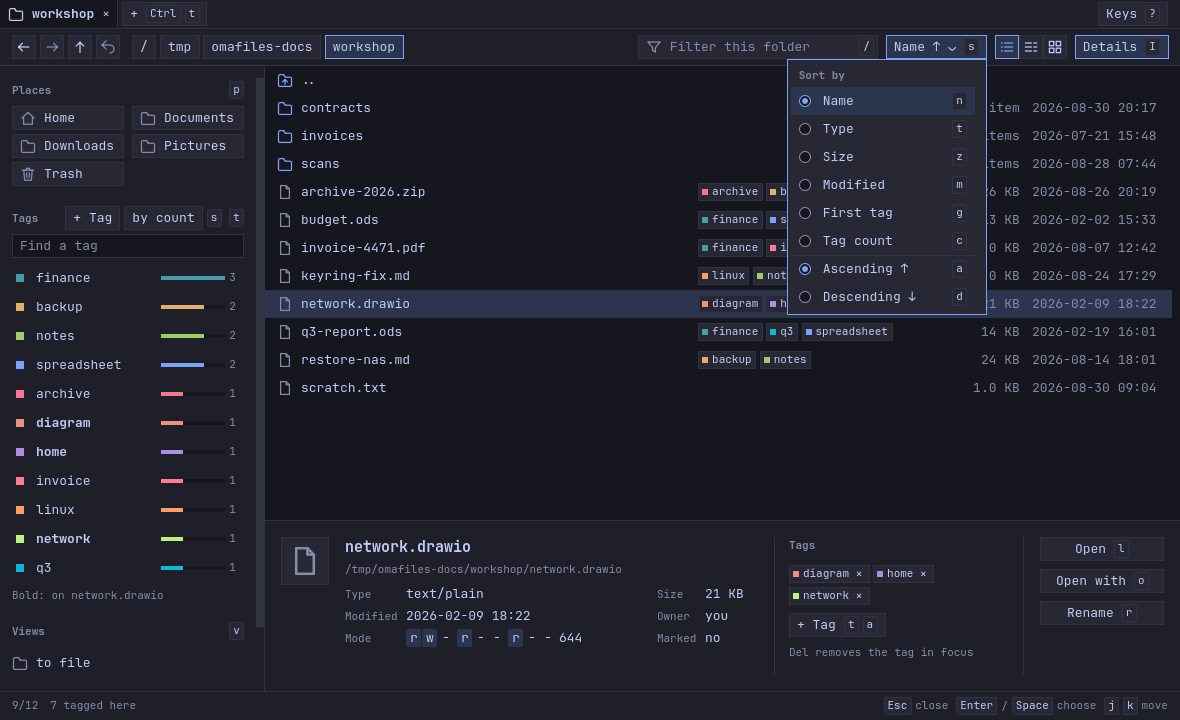
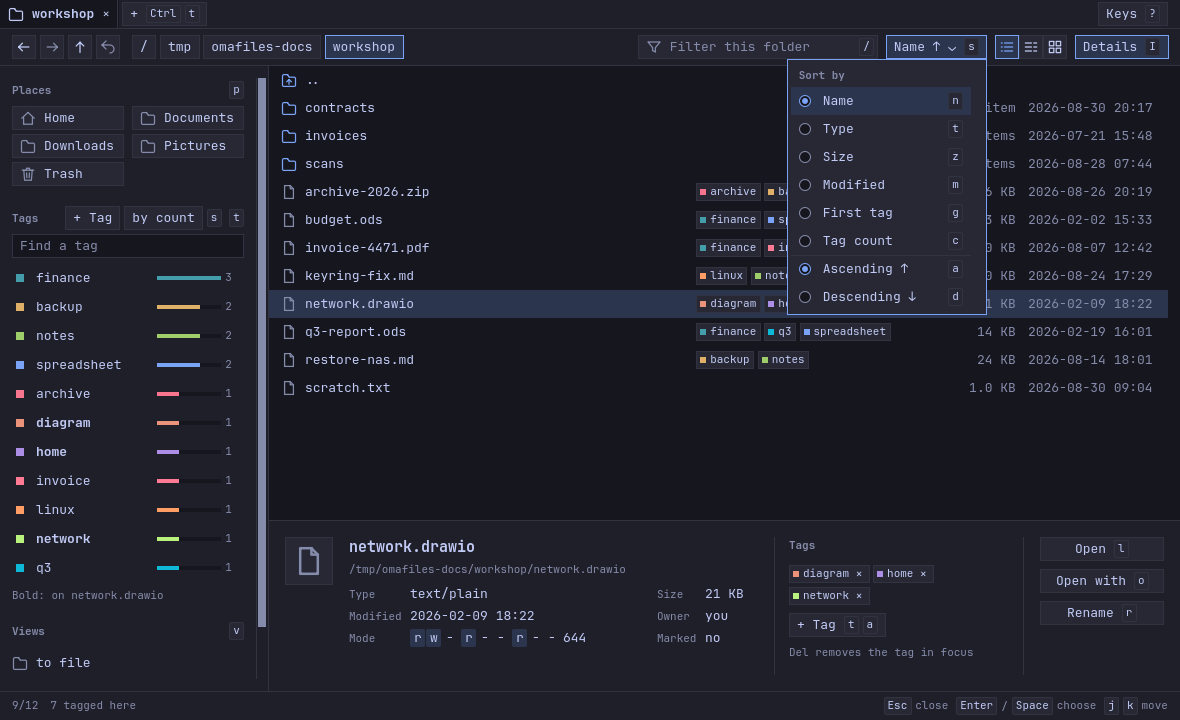
fix(studio): give the scroll bar contrast and buttons
The thumb was the line colour over the bare surface, about 1.3:1 on
base, thin, and the jumps to the first and last row were bare
chevrons, so the bar was nearly invisible. The bar now reserves the
12 px strip of the chosen layout: a chrome trough with a line edge
and an 8 px dim thumb, which Theme keeps at 4.5:1 on chrome in every
theme, turning foreground under the pointer. The end buttons are
Chips as wide as the strip, so they have the one button look with
its hover and pressed states, and stay out of the Tab order. The
sidebar grows by the 4 px the strip took, so the place names still
fit whole.

diff --git a/src/studio/qml/ScrollBar.qml b/src/studio/qml/ScrollBar.qml
@@ -6,9 +6,11 @@ import omafiles
 
 // The one scroll bar. Shown whenever the content is taller than the view, in a
 // strip the view reserves (`Theme.scrollBarWidth`), so it never covers a row.
-// It draws no track: the surface under it shows. Dragging the thumb scrolls, a
-// click in the trough pages toward the pointer, and a middle click or a Shift
-// click jumps there. It never takes the keyboard.
+// Its trough is `chrome` with a `line` edge, its thumb `dim`, and `foreground`
+// under the pointer: Theme keeps `dim` at 4.5:1 on `chrome` in every theme, so
+// the thumb stands out on whatever surface holds the bar. Dragging the thumb
+// scrolls, a click in the trough pages toward the pointer, and a middle click
+// or a Shift click jumps there. It never takes the keyboard.
 //
 // The pointer is handled here rather than by the template, whose press in the
 // trough jumps instead of paging.
@@ -18,6 +20,8 @@ T.ScrollBar {
     readonly property bool lit: pointer.containsMouse || pointer.pressed
 
     interactive: false
+    // Keeps the thumb off the trough's edge line, `scrollThumb` wide at rest.
+    horizontalPadding: (Theme.scrollBarWidth - Theme.scrollThumb) / 2
     visible: bar.size < 1
     minimumSize: bar.height > 0 ? Math.min(1, Theme.rowHeight / bar.height) : 0
     implicitWidth: bar.lit ? Theme.scrollBarHover : Theme.scrollBarWidth
@@ -29,7 +33,8 @@ T.ScrollBar {
 
     contentItem: Rectangle {
         objectName: "scrollThumb"
-        color: bar.lit ? Theme.dim : Theme.line
+        radius: Theme.rounding
+        color: bar.lit ? Theme.foreground : Theme.dim
     }
 
     background: MouseArea {
@@ -57,5 +62,12 @@ T.ScrollBar {
                 bar.moveTo(mouse.y / bar.height - grip)
         }
         onReleased: grip = -1
+
+        Rectangle {
+            objectName: "scrollTrough"
+            anchors.fill: parent
+            color: Theme.chrome
+            Rule { vertical: true; anchors.left: parent.left }
+        }
     }
 }

diff --git a/src/studio/qml/Main.qml b/src/studio/qml/Main.qml
@@ -2449,7 +2449,7 @@ Window {
                     id: sidebar
                     objectName: "sidebar"
                     Layout.fillHeight: true
-                    Layout.preferredWidth: 264
+                    Layout.preferredWidth: 268
                     // The panel belongs to both list tabs: the views in it are
                     // how you get anywhere, and a tags tab needs them as much
                     // as a folder does.
@@ -3441,25 +3441,25 @@ Window {
         }
     }
 
-    // A chevron at one end of a file view's scroll bar, pointing to the first
-    // row or, with `last`, the last. Not a Tab stop: Home and End are its keys.
-    component ScrollJump: Item {
+    // A button at one end of a file view's scroll bar, its chevron pointing to
+    // the first row or, with `last`, the last. Not a Tab stop: Home and End are
+    // its keys.
+    component ScrollJump: Chip {
         id: jump
         property bool last: false
-        signal activated
         width: parent.width
         height: Theme.chipHeight
-        Accessible.role: Accessible.Button
-        Accessible.name: jump.last ? "Last row" : "First row"
-        HoverHandler { id: jumpHover }
-        TapHandler { onTapped: jump.activated() }
+        tabFocusable: false
+        caption: jump.last ? "Last row" : "First row"
+        key: jump.last ? "End" : "Home"
+        Accessible.name: caption
         Icon {
             anchors.centerIn: parent
             width: jump.width
             height: jump.width
             kind: "chevron"
             rotation: jump.last ? 180 : 0
-            ink: jumpHover.hovered ? Theme.foreground : Theme.dim
+            ink: jump.ink
         }
     }
 

diff --git a/tests/tst_studio.cpp b/tests/tst_studio.cpp
@@ -742,6 +742,9 @@ private slots:
     void troughMiddleOrShiftClickJumps();
     void barDoesNotCoverRows();
     void scrollJumpButtonsMatchHomeEnd();
+    void scrollThumbStandsOutOfItsTrough();
+    void scrollJumpButtonsLookLikeButtons();
+    void placeNamesFitWholeInTheSidebar();
     void sectionHeadingsAreNotTabStops();
     void paletteFocusesTheDevices();
     void emptyStateTextWraps();
@@ -9669,7 +9672,7 @@ void TestStudio::emptyStateTextWraps()
     });
     auto *sidebar = qobject_cast<QQuickItem *>(window()->property("activeSidebar").value<QObject *>());
     QVERIFY(sidebar && sidebar->isVisible());
-    QCOMPARE(sidebar->width(), qreal(264));
+    QCOMPARE(sidebar->width(), qreal(268));
     // The sidebar has no drag handle: its layout width is set to 220, where
     // the help needs two lines.
     QQmlProperty preferred(sidebar, QStringLiteral("Layout.preferredWidth"), qmlContext(sidebar));
@@ -12759,6 +12762,103 @@ void TestStudio::scrollJumpButtonsMatchHomeEnd()
     QTRY_COMPARE(state(), home);
 }
 
+// The thumb reads against its trough at rest and under the pointer: 3:1, the
+// WCAG floor for a control's shape.
+void TestStudio::scrollThumbStandsOutOfItsTrough()
+{
+    const QSize original = window()->size();
+    const auto restore = qScopeGuard([&] { window()->resize(original); });
+    QTemporaryDir directory;
+    QVERIFY(openLongFolder(directory, 500));
+    QQuickItem *bar = nullptr;
+    QTRY_VERIFY((bar = shownFileBar(filesRoot())));
+    auto *thumb = bar->property("contentItem").value<QQuickItem *>();
+    auto *trough = itemNamedWithin(bar, QStringLiteral("scrollTrough"));
+    QVERIFY(thumb && trough && trough->isVisible());
+    const auto colour = [](QQuickItem *item) { return item->property("color").value<QColor>(); };
+    QCOMPARE(colour(trough).alpha(), 255);
+    const auto ratio = [&] { return omafiles::contrast(colour(thumb), colour(trough)); };
+    QTest::mouseMove(window(), QPoint(2, 2));
+    QTRY_VERIFY(!bar->property("lit").toBool());
+    QVERIFY2(ratio() >= 3, qPrintable(QStringLiteral("at rest %1:1").arg(ratio())));
+    // The strip and thumb of the chosen layout: a 12 px strip, an 8 px thumb.
+    QCOMPARE(qRound(bar->width()), 12);
+    QCOMPARE(qRound(thumb->width()), 8);
+    const QColor rest = colour(thumb);
+    QTest::mouseMove(window(), thumb->mapToScene(QPointF(thumb->width() / 2, thumb->height() / 2)).toPoint());
+    QTRY_VERIFY(bar->property("lit").toBool());
+    QVERIFY(colour(thumb) != rest);
+    QVERIFY2(ratio() >= 3, qPrintable(QStringLiteral("under the pointer %1:1").arg(ratio())));
+    QTest::mouseMove(window(), QPoint(2, 2));
+}
+
+// The buttons at the bar's ends have the button look: a raised box with a
+// line border, lighter under the pointer, filled and accent-bordered while
+// pressed. Home and End are their keys, so neither is a Tab stop.
+void TestStudio::scrollJumpButtonsLookLikeButtons()
+{
+    const QSize original = window()->size();
+    const auto restore = qScopeGuard([&] { window()->resize(original); });
+    QTemporaryDir directory;
+    QVERIFY(openLongFolder(directory, 500));
+    for (const QString &name : {QStringLiteral("scrollToStart"), QStringLiteral("scrollToEnd")}) {
+        auto *button = itemNamedWithin(qobject_cast<QQuickItem *>(filesRoot()), name);
+        QVERIFY(button);
+        QTRY_VERIFY(button->isVisible());
+        const auto colour = [&] { return button->property("color").value<QColor>(); };
+        const auto border = [&] { return button->property("border").value<QObject *>(); };
+        QVERIFY2(border(), qPrintable(name));
+        QVERIFY(!button->activeFocusOnTab());
+        QCOMPARE(qRound(button->width()), m_theme->scrollBarWidth());
+        QTest::mouseMove(window(), QPoint(2, 2));
+        QTRY_COMPARE(colour(), m_theme->raised());
+        QVERIFY(border()->property("width").toReal() >= 1);
+        QCOMPARE(border()->property("color").value<QColor>(), m_theme->line());
+        const QPoint centre = button->mapToScene(QPointF(button->width() / 2, button->height() / 2)).toPoint();
+        QTest::mouseMove(window(), centre);
+        QTRY_COMPARE(colour(), m_theme->hoverRaised());
+        QTest::mousePress(window(), Qt::LeftButton, Qt::NoModifier, centre);
+        QTRY_COMPARE(colour(), m_theme->cursor());
+        QCOMPARE(border()->property("color").value<QColor>(), m_theme->accent());
+        QTest::mouseRelease(window(), Qt::LeftButton, Qt::NoModifier, centre);
+        QTRY_COMPARE(colour(), m_theme->hoverRaised());
+    }
+    QTest::mouseMove(window(), QPoint(2, 2));
+}
+
+// At the sidebar's own width, beside its scroll bar's strip, every place
+// button shows its whole name.
+void TestStudio::placeNamesFitWholeInTheSidebar()
+{
+    const QDir home(m_tree.path());
+    const QStringList folders{QStringLiteral("Desktop"), QStringLiteral("Documents"), QStringLiteral("Downloads"),
+                              QStringLiteral("Music"), QStringLiteral("Pictures"), QStringLiteral("Videos")};
+    for (const QString &folder : folders)
+        QVERIFY(home.mkdir(folder));
+    const auto cleanup = qScopeGuard([&] {
+        for (const QString &folder : folders)
+            QDir(home.filePath(folder)).removeRecursively();
+        tab()->setCwd(home.filePath(QStringLiteral("alpha")));
+        tab()->setCwd(m_tree.path());
+        settle();
+    });
+    tab()->setCwd(home.filePath(QStringLiteral("alpha")));
+    tab()->setCwd(m_tree.path());
+    auto *sidebar = qobject_cast<QQuickItem *>(window()->property("activeSidebar").value<QObject *>());
+    QVERIFY(sidebar && sidebar->isVisible());
+    auto *grid = sidebar->property("placesList").value<QQuickItem *>();
+    QTRY_COMPARE(grid->property("count").toInt(), folders.size() + 2);
+    settle();
+    int names = 0;
+    for (auto *label : itemsNamed(QStringLiteral("placeName"))) {
+        if (!grid->isAncestorOf(label) || !label->isVisible())
+            continue;
+        ++names;
+        QVERIFY2(!label->property("truncated").toBool(), qPrintable(label->property("text").toString()));
+    }
+    QCOMPARE(names, folders.size() + 2);
+}
+
 void TestStudio::keepsTagEditorFocusAndSuggestionsVisible()
 {
     const QSize original = window()->size();
@@ -12817,10 +12917,10 @@ void TestStudio::routesSidebarKeysByScrollRange_data()
     QTest::addColumn<bool>("overflowing");
     QTest::addColumn<bool>("tooltip");
     QTest::addColumn<int>("navigationKey");
-    // At 920 the details dock keeps its tags column beside a sidebar of up to
-    // 264 px.
+    // At 924 the details dock keeps its tags column beside a sidebar of up to
+    // 268 px.
     for (bool pendingRefresh : {false, true})
-        for (int width : {1180, 920})
+        for (int width : {1180, 924})
             for (bool overflowing : {false, true})
                 for (bool tooltip : {false, true})
                     for (auto code : {Qt::Key_Up, Qt::Key_Down, Qt::Key_PageUp,
@@ -18163,9 +18263,9 @@ void TestStudio::givesTheNameColumnPriority()
     QVERIFY(chosen.contains("tags") && chosen.contains("size") && chosen.contains("mtime"));
     QList<qreal> lists;
     // Window widths and pane counts that give lists from 100 to 1340 px; the
-    // sidebar takes 265 px beside a single pane, and the list's scroll bar 8.
-    for (const QPair<int, int> layout : {qMakePair(420, 1), qMakePair(640, 1), qMakePair(821, 1), qMakePair(1180, 1),
-                                         qMakePair(1328, 1), qMakePair(1613, 1), qMakePair(420, 2), qMakePair(600, 2), qMakePair(1000, 2)}) {
+    // sidebar takes 269 px beside a single pane, and the list's scroll bar 12.
+    for (const QPair<int, int> layout : {qMakePair(420, 1), qMakePair(640, 1), qMakePair(829, 1), qMakePair(1180, 1),
+                                         qMakePair(1328, 1), qMakePair(1621, 1), qMakePair(420, 2), qMakePair(600, 2), qMakePair(1000, 2)}) {
         window()->resize(layout.first, 600);
         if (layout.second == 2 && m_workspace->paneCount() == 1) key(Qt::Key_Backslash, Qt::ControlModifier);
         QCOMPARE(m_workspace->paneCount(), layout.second);

diff --git a/src/studio/Theme.h b/src/studio/Theme.h
@@ -68,6 +68,7 @@ class Theme : public QObject
     Q_PROPERTY(int focusRing READ focusRing CONSTANT)
     Q_PROPERTY(int scrollBarWidth READ scrollBarWidth CONSTANT)
     Q_PROPERTY(int scrollBarHover READ scrollBarHover CONSTANT)
+    Q_PROPERTY(int scrollThumb READ scrollThumb CONSTANT)
 
 public:
     explicit Theme(QObject *parent = nullptr);
@@ -144,9 +145,10 @@ public:
     // The width of the focus ring, drawn just outside the box it marks.
     static constexpr int focusRing() { return 2; }
     // A scroll bar's width at rest, which its view reserves, and under the
-    // pointer.
-    static constexpr int scrollBarWidth() { return 8; }
-    static constexpr int scrollBarHover() { return 12; }
+    // pointer; its thumb's width at rest.
+    static constexpr int scrollBarWidth() { return 12; }
+    static constexpr int scrollBarHover() { return 16; }
+    static constexpr int scrollThumb() { return 8; }
 
 signals:
     void changed();

diff --git a/docs/design.md b/docs/design.md
@@ -48,7 +48,7 @@ The CLI is a command-line tool that invokes core library verbs: `ls`, `tags`, `t
 
 ### Studio (`src/studio`)
 
-The studio is a Qt Quick window over the core library. It implements folder browsing, tag editing, thumbnail display, preview, trash, undo, desktop file manager integration, file operations with conflict resolution, and the portal file chooser. Its window is a tab strip and a toolbar, then the body: the sidebar on the left (`Sidebar.qml`: places, devices, tags, saved views) at full height, and beside it the panes in a split view with the details dock under them (`Details.qml`), as wide as every pane together and behind a 1 px `line`. The dock has three columns split by `line`: the file (a 48 px `raised` icon square, the name in `fontTitle` DemiBold, the path, the facts in pairs), its tags (248 px), and its actions (156 px). A column with no room beside 400 px of file column is dropped whole, the actions first. The tab strip holds every pane's tabs, side by side in pane order, each pane's group with its own `+`, and the keys sheet's button at the right. The toolbar holds back, forward, up and undo, the path as one `Chip` per folder (the current one on; a stem too long for the bar gives way from the left behind one `…`), the filter field, the sort button (`chooseSort` in `Main.qml`, which `s` also calls), the view mode switch (`ViewModeSwitch.qml`: one Tab stop, Left and Right inside) and the Details toggle (`detailsShown`). The toolbar acts on the focused pane. There is one sidebar and one dock per window, and both act on the focused pane too. The sidebar is dropped while a pane would be too narrow beside it (`paneShare`, the window width over the pane count, under 480). The dock is as tall as its file column with the path on all three lines, so it keeps its height while the cursor moves. It is there on every list tab at any width; it is dropped while the panes above it would be shorter than `listLeast`, and comes back when there is room (`details.fits`). The Details toggle and **I** (`detailsShown`, also the palette's **Show or hide details**) decide whether it is wanted. The facts' Mode and Marked row is dropped where the file column cannot hold the permission bits, so no bit is cut. The path wraps only after `/`: `Details.breakable` puts U+200B after each `/` and U+2060 between the other characters, so a space or a hyphen gives no break, and `fitPath` drops whole folders from the middle behind `…` until a hidden probe `Text` lays it out on three lines. A dock tag chip is one `FocusableControl` whose tap is routed by position: the trailing 12 px `×` removes the tag (`IndexModel.tagRemove` over the row or the marked set, as the row menu's **Remove tag** does), the body toggles the tag's view as a sidebar click does (`toggleTag`); Enter opens and Delete removes. A chip that goes while it has the keyboard, as when the cursor moves to a row without its tag, hands the keyboard to the next control in the Tab chain (`handOnFocus`), as a hidden `FocusableControl` does. Open, Open with and Rename show and call what `l`, `o` and `r` call; `o` opens the row menu's Open with list under the cursor row (`openOpenWithMenuForCursor`), only where the dock's button is usable (`details.canOpenWith`), so it works with the dock hidden. `detailsDockTogglesWithKey`, `detailsPathBreaksAfterSlash`, `detailsTagChipRemoveIsItsOwnTarget`, `detailsTagChipHandsOnFocusWhenRemoved` `dockActionsRunTheirCommands` and `opensWithFromTheKeyboard` in `tests/tst_studio.cpp` check the place, the path, the chips, where the keyboard goes when a chip goes, and the actions. It runs the CLI and core verbs asynchronously in background tasks. The window can run without the helpers; helpers are started on demand when their features are used. Large folders are loaded in the background with names cached and metadata read on demand. Background jobs run on Qt's global thread pool, which Qt sizes from the CPU affinity mask: one thread on one CPU. A job that makes filesystem calls (folder listing, folder item counts, index presence, Trash scan, restore and empty, drop planning, portal path checks, undo steps, archive stage cleanup, default file manager setup) runs through `runBlocking` in `src/studio/BlockingJob.h`, which gives the job's pool slot back with `QThreadPool::releaseThread()` until it returns, as Qt documents for a runnable that waits. A job stuck in the kernel on an unresponsive mount then never keeps queued jobs waiting; the pool starts another thread for them. Pure CPU work (portal filter patterns) keeps its slot, and the CPU-heavy parts of a folder listing run on the directory worker pool, one worker per allowed CPU. See [browsing.md](browsing.md) for how large folder browsing works, [thumbnails.md](thumbnails.md) for thumbnail caching, [drag-and-drop.md](drag-and-drop.md) for file operations, and [conflicts.md](conflicts.md) for handling conflicting paths during copy and move.
+The studio is a Qt Quick window over the core library. It implements folder browsing, tag editing, thumbnail display, preview, trash, undo, desktop file manager integration, file operations with conflict resolution, and the portal file chooser. Its window is a tab strip and a toolbar, then the body: the sidebar on the left (`Sidebar.qml`: places, devices, tags, saved views) at full height and 268 px wide, so every place name fits whole beside its scroll bar's strip (`placeNamesFitWholeInTheSidebar` in `tests/tst_studio.cpp`), and beside it the panes in a split view with the details dock under them (`Details.qml`), as wide as every pane together and behind a 1 px `line`. The dock has three columns split by `line`: the file (a 48 px `raised` icon square, the name in `fontTitle` DemiBold, the path, the facts in pairs), its tags (248 px), and its actions (156 px). A column with no room beside 400 px of file column is dropped whole, the actions first. The tab strip holds every pane's tabs, side by side in pane order, each pane's group with its own `+`, and the keys sheet's button at the right. The toolbar holds back, forward, up and undo, the path as one `Chip` per folder (the current one on; a stem too long for the bar gives way from the left behind one `…`), the filter field, the sort button (`chooseSort` in `Main.qml`, which `s` also calls), the view mode switch (`ViewModeSwitch.qml`: one Tab stop, Left and Right inside) and the Details toggle (`detailsShown`). The toolbar acts on the focused pane. There is one sidebar and one dock per window, and both act on the focused pane too. The sidebar is dropped while a pane would be too narrow beside it (`paneShare`, the window width over the pane count, under 480). The dock is as tall as its file column with the path on all three lines, so it keeps its height while the cursor moves. It is there on every list tab at any width; it is dropped while the panes above it would be shorter than `listLeast`, and comes back when there is room (`details.fits`). The Details toggle and **I** (`detailsShown`, also the palette's **Show or hide details**) decide whether it is wanted. The facts' Mode and Marked row is dropped where the file column cannot hold the permission bits, so no bit is cut. The path wraps only after `/`: `Details.breakable` puts U+200B after each `/` and U+2060 between the other characters, so a space or a hyphen gives no break, and `fitPath` drops whole folders from the middle behind `…` until a hidden probe `Text` lays it out on three lines. A dock tag chip is one `FocusableControl` whose tap is routed by position: the trailing 12 px `×` removes the tag (`IndexModel.tagRemove` over the row or the marked set, as the row menu's **Remove tag** does), the body toggles the tag's view as a sidebar click does (`toggleTag`); Enter opens and Delete removes. A chip that goes while it has the keyboard, as when the cursor moves to a row without its tag, hands the keyboard to the next control in the Tab chain (`handOnFocus`), as a hidden `FocusableControl` does. Open, Open with and Rename show and call what `l`, `o` and `r` call; `o` opens the row menu's Open with list under the cursor row (`openOpenWithMenuForCursor`), only where the dock's button is usable (`details.canOpenWith`), so it works with the dock hidden. `detailsDockTogglesWithKey`, `detailsPathBreaksAfterSlash`, `detailsTagChipRemoveIsItsOwnTarget`, `detailsTagChipHandsOnFocusWhenRemoved` `dockActionsRunTheirCommands` and `opensWithFromTheKeyboard` in `tests/tst_studio.cpp` check the place, the path, the chips, where the keyboard goes when a chip goes, and the actions. It runs the CLI and core verbs asynchronously in background tasks. The window can run without the helpers; helpers are started on demand when their features are used. Large folders are loaded in the background with names cached and metadata read on demand. Background jobs run on Qt's global thread pool, which Qt sizes from the CPU affinity mask: one thread on one CPU. A job that makes filesystem calls (folder listing, folder item counts, index presence, Trash scan, restore and empty, drop planning, portal path checks, undo steps, archive stage cleanup, default file manager setup) runs through `runBlocking` in `src/studio/BlockingJob.h`, which gives the job's pool slot back with `QThreadPool::releaseThread()` until it returns, as Qt documents for a runnable that waits. A job stuck in the kernel on an unresponsive mount then never keeps queued jobs waiting; the pool starts another thread for them. Pure CPU work (portal filter patterns) keeps its slot, and the CPU-heavy parts of a folder listing run on the directory worker pool, one worker per allowed CPU. See [browsing.md](browsing.md) for how large folder browsing works, [thumbnails.md](thumbnails.md) for thumbnail caching, [drag-and-drop.md](drag-and-drop.md) for file operations, and [conflicts.md](conflicts.md) for handling conflicting paths during copy and move.
 
 ### Studio metrics
 
@@ -73,7 +73,7 @@ The window's colours and sizes come from one QML singleton, `Theme` (`src/studio
 | | `listLeast` | 136 | the least height the panes keep above the details dock: a column heading and four rows |
 | Indent | `iconSize`, `iconGap` | 16, 8 | a row's icon and the gap before its text |
 | Focus | `focusRing` | 2 | the width of the focus ring, drawn just outside the box it marks |
-| Scroll bar | `scrollBarWidth`, `scrollBarHover` | 8, 12 | a scroll bar at rest, which its view reserves at its right edge, and under the pointer |
+| Scroll bar | `scrollBarWidth`, `scrollBarHover`, `scrollThumb` | 12, 16, 8 | a scroll bar at rest, which its view reserves at its right edge, and under the pointer; its thumb at rest |
 
 Every colour is opaque. `Theme` mixes each role from the theme's `background`, `foreground` and `accent` in `colors.toml`: `base` (the background: the file list, text fields, the current tab), `chrome` (5 % toward the foreground: tab strip, toolbar, tabs other than the current one, sidebar, details, footer, sheets), `raised` (10 %: menus, tooltips, keycaps, tag chips, chips at rest), `line` (16 %: every hairline and control border), `hoverBase`, `hoverChrome` and `hoverRaised` (each surface 6 % toward the foreground), `cursor` (`base` 22 % toward the accent: the keyboard cursor's row or cell, a control that is on), `marked` (12 %: a marked row), `dim` (the foreground eased toward the background by at most 45 %, and by less where it would read below 4.5:1 on `chrome`) and `scrim` (`base` 35 % toward black, drawn opaque in place of the window behind a sheet). `foreground`, `accent` and `urgent` (the theme's `red`) are used as they are, and an alpha in `colors.toml` is dropped from every colour it gives. A translucent colour would show whatever is under it, and a `Rectangle` that is fully transparent, square and has a border group but no border width leaves alpha 0 in the window, which the desktop shows through. So no QML names a colour literal, builds a colour or animates a border colour, and an item that draws nothing at rest is not drawn: a `FocusableControl` draws its box only while its host sets `hasChrome`, a `PanelRow` its wash while `washed`. The three outlines (`FocusRing`, the rubber band, the drop target) are transparent inside and set their border width. `tests/test_qml_colours.py`, run by `mise run test`, fails on any other; `themeRolesAreOpaque` and `dimTextHasContrast` in `tests/tst_studio.cpp` check every role under the default theme, a light one and a translucent one.
 
@@ -83,7 +83,7 @@ Every tag has a colour, which only the window keeps: the index and the CLI do no
 
 A tab (`TabHandle.qml`) is `base` while it is its pane's current tab, so it joins the list under it, and `chrome` with a `dim` name otherwise; only the focused pane's current tab sets its name in DemiBold, and no tab draws an accent. Its close mark is always drawn: `foreground` on the current tab, `dim` on the others, `urgent` under the pointer. A tab listing a tag shows a `tagSwatch` square in `Theme.tagColour` of that tag (a tags tab: its last facet) in place of the folder mark. Each tab keeps the folders it stood in, in memory only: `TabState::setCwd` puts the folder it leaves on the back list and empties the forward one, and `goBack` and `goForward` (the toolbar buttons, **H** and **L**) leave a tag, a search or the recent list, then step, passing over a folder that is gone, with the cursor on the folder walked out of. `tabCloseVisibleOnEveryTab`, `currentTabIsBaseAndBold`, `focusedPaneTabIsBold`, `tagTabShowsColour`, `viewModeSwitchIsOneTabStop`, `pathSegmentsNavigate`, `toolbarDetailsToggles` and `backAndForwardWalkTheHistory` in `tests/tst_studio.cpp` check the strip and the toolbar.
 
-`ScrollBar` (`src/studio/qml/ScrollBar.qml`, on `QtQuick.Templates`) is the one scroll bar, on every view that scrolls: the file list and icons, the sidebar, details, menus, the palette, Trash, the chooser, tag suggestions and every sheet. It is shown exactly while its content is taller than its view. Its view keeps `scrollBarWidth` px at its right edge for it, so rows, tag chips and columns end before it; it draws no track, so the surface shows there. The thumb is `line`, `dim` and `scrollBarHover` px wide under the pointer or while dragged, and at least `rowHeight` long. A press in the trough moves one view height toward the pointer; a middle or Shift press puts the thumb's centre there. It never takes the focus, and the wheel stays with `ImmediateWheel`. The file views hold it in a strip between two `ScrollJump` chevrons, which focus their pane and call the same `moveToEnd` as Home and End. `everyScrollingViewHasAVisibleBar`, `scrollBarDragReachesEnd`, `troughClickPages`, `troughMiddleOrShiftClickJumps`, `barDoesNotCoverRows` and `scrollJumpButtonsMatchHomeEnd` in `tests/tst_studio.cpp` check it.
+`ScrollBar` (`src/studio/qml/ScrollBar.qml`, on `QtQuick.Templates`) is the one scroll bar, on every view that scrolls: the file list and icons, the sidebar, details, menus, the palette, Trash, the chooser, tag suggestions and every sheet. It is shown exactly while its content is taller than its view. Its view keeps `scrollBarWidth` px at its right edge for it, so rows, tag chips and columns end before it; its trough is `chrome` with a 1 px `line` edge at its left. The thumb is centred in the strip, `scrollThumb` px wide at rest; it is `dim` at rest, which `Theme` keeps at 4.5:1 on `chrome` in every theme, and `foreground` under the pointer or while dragged, when the bar widens to `scrollBarHover` px over its view; it is at least `rowHeight` long. The two `ScrollJump` buttons are as wide as the strip. A press in the trough moves one view height toward the pointer; a middle or Shift press puts the thumb's centre there. It never takes the focus, and the wheel stays with `ImmediateWheel`. The file views hold it in a strip between two `ScrollJump` buttons, each a `Chip` with a chevron that is not a Tab stop, so it has the button look; they focus their pane and call the same `moveToEnd` as Home and End. `everyScrollingViewHasAVisibleBar`, `scrollBarDragReachesEnd`, `troughClickPages`, `troughMiddleOrShiftClickJumps`, `barDoesNotCoverRows`, `scrollJumpButtonsMatchHomeEnd`, `scrollThumbStandsOutOfItsTrough` and `scrollJumpButtonsLookLikeButtons` in `tests/tst_studio.cpp` check it.
 
 Type has two axes, size and weight; text is never made lighter with opacity. `Label` draws `quiet` text at `fontCaption` in `dim` and other text at `fontBody`, and does not elide: each caller says how its text gives way. File names (rows, cells, tabs, the details name, sheet titles) elide in the middle, so the extension stays; other names and values elide at the right; empty-state and help text wraps; the footer drops whole facts and hints. A panel row (`PanelRow`) is `inset | icon | iconGap | text | trailing`, every part on the row's centre line, so its text starts `inset + 24` px inside the panel. A section heading (`SectionHeading`) is text, not a control: `headingHeight` tall, its name in `fontHeading` DemiBold `dim` at the row icons' edge, and at the right edge the section's actions and then the key that walks the section as `KeyCaps`. Tab passes it by; **v**, **d** and **t** walk the sections, and land on the heading only while its section has no row. Sections are `spacingL` apart with no rule between them, and a heading's rows start `spacingXs` under it. The scale is named the way KDE Kirigami's `Units` names its spacings and icon sizes; as in the GNOME HIG, spacing sits on a fixed grid (4 px here, where GNOME uses 6).
 

diff --git a/docs/screens.md b/docs/screens.md
@@ -6,7 +6,7 @@ The studio window is 1180×720 pixels, its default size. Pictures are generated 
 
 ## Main window
 
-The main window shows files and folders in a list, details, or icon view. The top row is the tab strip: every tab with its **×**, a **+ Ctrl t** button that opens a menu of new tabs, and **Keys ?** at the right, which opens the key sheet. The current tab has the list's background and its name in bold; the others are grey. A tab that lists a tag shows the tag's colour square instead of the folder icon. Click a tab's **×** or middle-click the tab to close it. Under the strip is the toolbar, which works the focused pane: back, forward and parent folder buttons, the Undo button, then the path as one button per folder (**/**, **home**, **you**). The current folder's button is filled and outlined in the accent colour; click another to go there, or click the current one to type a path. When the path does not fit, the buttons at its start give way to one **…** button, which goes to the last folder hidden behind it; the current folder's button always stays whole. A tag listing, a search or the recent list is one button reading the question, such as **#work**. At the right of the toolbar: a filter field reading the filter, which opens the filter bar as **/** does; a sort button reading the sort key and direction, such as **Name ↑ ⌄**, which opens the sort menu as **s** does (see [Sorting](#sorting)); the view mode switch, three icons for list, details and icons view that are one Tab stop, where **←** and **→** move between them; and the **Details I** toggle, which shows or hides the details dock. The filter field is dropped first when the window is narrow, then the Details toggle; **I** still works. The sidebar on the left holds where to go: places, devices, tags and saved views, in that order. Each section starts with a heading in small bold text, such as **Views**, with the key that walks it drawn as a key at its right edge; a heading is not a Tab stop. The **Tags** heading carries a **+ Tag** button, which adds a tag to the current row or the marked set; it stays visible but greyed out while the current row is not a file or folder, and its tooltip then says **Select a file to tag it**. An empty section says so in text that wraps, such as **nothing saved yet · m to save one**; the devices section is hidden while no removable device is connected. See [Places](#places), [Tag panel](#tag-panel), [Saved views](#saved-views) and [Devices panel](#devices-panel). The details dock under the panes shows what the current row is; see [Details dock](#details-dock). Both follow the focused pane: a split window has one sidebar and one details dock, and the dock spans every pane. The sidebar is dropped while a pane would be narrower than 480 pixels; **p**, **v**, **d** and **t** bring the sidebar back while they walk it. One accent ring marks where the keyboard is: 2 px around a focused button or field, or 1 px on the edge of the cursor row of the focused list. In a split, the other pane's cursor row keeps its fill and has no ring. Buttons have one look: a raised box with a thin border, a stronger accent-bordered fill while on or pressed, and grey text while they cannot be used. A list, the sidebar, the dock's tags, a menu or a sheet whose content is taller than it shows a scroll bar at its right edge, in a strip of its own that rows never run under, and shows none when everything fits. Drag the thumb to scroll, click above or below it to move a page, or middle-click or Shift-click to jump to that point; the bar never takes the keyboard. In the file views a chevron above the bar goes to the first row and one below it to the last, as **Home** and **End** do. The pictures' fixture fits its window, so no picture shows the bar. The footer is one line: on the left the position, such as **2/5**, the number of marked rows in the accent colour when there are any, and **N tagged here**; on the right, hints for the keys of the focused region, each a key and a grey caption with no box around it until the pointer is over it. A hint is still a button: click it or Tab to it. While a sheet, a menu or the command palette is open, the hints name its keys, such as **Esc close** and **Enter apply**. A receipt or an error sits between them and takes the room of the least important hints. When the window narrows, the least important hints are dropped first; **? keys** always stays. The status drops whole facts from its end in the same way, so a fact is never cut mid-word; the position, such as **2/5**, always stays, and ends in an ellipsis where even it does not fit.
+The main window shows files and folders in a list, details, or icon view. The top row is the tab strip: every tab with its **×**, a **+ Ctrl t** button that opens a menu of new tabs, and **Keys ?** at the right, which opens the key sheet. The current tab has the list's background and its name in bold; the others are grey. A tab that lists a tag shows the tag's colour square instead of the folder icon. Click a tab's **×** or middle-click the tab to close it. Under the strip is the toolbar, which works the focused pane: back, forward and parent folder buttons, the Undo button, then the path as one button per folder (**/**, **home**, **you**). The current folder's button is filled and outlined in the accent colour; click another to go there, or click the current one to type a path. When the path does not fit, the buttons at its start give way to one **…** button, which goes to the last folder hidden behind it; the current folder's button always stays whole. A tag listing, a search or the recent list is one button reading the question, such as **#work**. At the right of the toolbar: a filter field reading the filter, which opens the filter bar as **/** does; a sort button reading the sort key and direction, such as **Name ↑ ⌄**, which opens the sort menu as **s** does (see [Sorting](#sorting)); the view mode switch, three icons for list, details and icons view that are one Tab stop, where **←** and **→** move between them; and the **Details I** toggle, which shows or hides the details dock. The filter field is dropped first when the window is narrow, then the Details toggle; **I** still works. The sidebar on the left holds where to go: places, devices, tags and saved views, in that order. Each section starts with a heading in small bold text, such as **Views**, with the key that walks it drawn as a key at its right edge; a heading is not a Tab stop. The **Tags** heading carries a **+ Tag** button, which adds a tag to the current row or the marked set; it stays visible but greyed out while the current row is not a file or folder, and its tooltip then says **Select a file to tag it**. An empty section says so in text that wraps, such as **nothing saved yet · m to save one**; the devices section is hidden while no removable device is connected. See [Places](#places), [Tag panel](#tag-panel), [Saved views](#saved-views) and [Devices panel](#devices-panel). The details dock under the panes shows what the current row is; see [Details dock](#details-dock). Both follow the focused pane: a split window has one sidebar and one details dock, and the dock spans every pane. The sidebar is dropped while a pane would be narrower than 480 pixels; **p**, **v**, **d** and **t** bring the sidebar back while they walk it. One accent ring marks where the keyboard is: 2 px around a focused button or field, or 1 px on the edge of the cursor row of the focused list. In a split, the other pane's cursor row keeps its fill and has no ring. Buttons have one look: a raised box with a thin border, a stronger accent-bordered fill while on or pressed, and grey text while they cannot be used. A list, the sidebar, the dock's tags, a menu or a sheet whose content is taller than it shows a scroll bar at its right edge, in a strip of its own that rows never run under, and shows none when everything fits. The bar's strip is 12 px wide. Its trough has the colour of the window's bars and a thin line at its left; its 8 px thumb is grey and turns the text colour under the pointer, when the bar widens to 16 px. Drag the thumb to scroll, click above or below it to move a page, or middle-click or Shift-click to jump to that point; the bar never takes the keyboard. In the file views a button with a chevron above the bar goes to the first row and one below it to the last, as **Home** and **End** do; they have the button look. In the pictures the sidebar shows its bar; the fixture's file list fits its window, so no picture shows the end buttons. The footer is one line: on the left the position, such as **2/5**, the number of marked rows in the accent colour when there are any, and **N tagged here**; on the right, hints for the keys of the focused region, each a key and a grey caption with no box around it until the pointer is over it. A hint is still a button: click it or Tab to it. While a sheet, a menu or the command palette is open, the hints name its keys, such as **Esc close** and **Enter apply**. A receipt or an error sits between them and takes the room of the least important hints. When the window narrows, the least important hints are dropped first; **? keys** always stays. The status drops whole facts from its end in the same way, so a fact is never cut mid-word; the position, such as **2/5**, always stays, and ends in an ellipsis where even it does not fit.
 
 In list view every row shows its icon and name, then its tags, size and modified time in columns; details view shows the columns chosen for it under headings (see [Details pane](#details-pane)). In both, the tags column starts at the same place on every row, so each row's first chip lines up under the one above it. A folder's size is what it holds, such as **3 items**, **1 item** or **0 items**, hidden names included; it fills in once the folder has been read, without holding up the list, and stays empty for a folder that cannot be read. When the list narrows, the name keeps its room and list view drops whole columns: modified, then size, then tags.
 
@@ -140,7 +140,7 @@ Picture: **img/04-keys.png**
 
 ## Places
 
-The first sidebar section is a grid of buttons, two to a row: **Home**, then the desktop's user folders that exist (**Desktop**, **Documents**, **Downloads**, **Music**, **Pictures**, **Videos**, as `~/.config/user-dirs.dirs` or their default names say), then **Trash**. A user folder that is missing, or set to the home folder itself, has no button; the list is read again each time the tab moves. Click a place, or press **p**, move with **j k**, and press **Enter**: a folder opens in the current tab, and in a tags tab it opens in a new files tab. **Trash** opens the Trash in a new tab. The button for the folder the tab stands in has the accent border and fill. While **p** walks the grid, the button under the cursor has the 1 px accent ring.
+The first sidebar section is a grid of buttons, two to a row: **Home**, then the desktop's user folders that exist (**Desktop**, **Documents**, **Downloads**, **Music**, **Pictures**, **Videos**, as `~/.config/user-dirs.dirs` or their default names say), then **Trash**. Each name shows whole. A user folder that is missing, or set to the home folder itself, has no button; the list is read again each time the tab moves. Click a place, or press **p**, move with **j k**, and press **Enter**: a folder opens in the current tab, and in a tags tab it opens in a new files tab. **Trash** opens the Trash in a new tab. The button for the folder the tab stands in has the accent border and fill. While **p** walks the grid, the button under the cursor has the 1 px accent ring.
 
 Reach it: Press **p**, or click a place in the sidebar.
 
